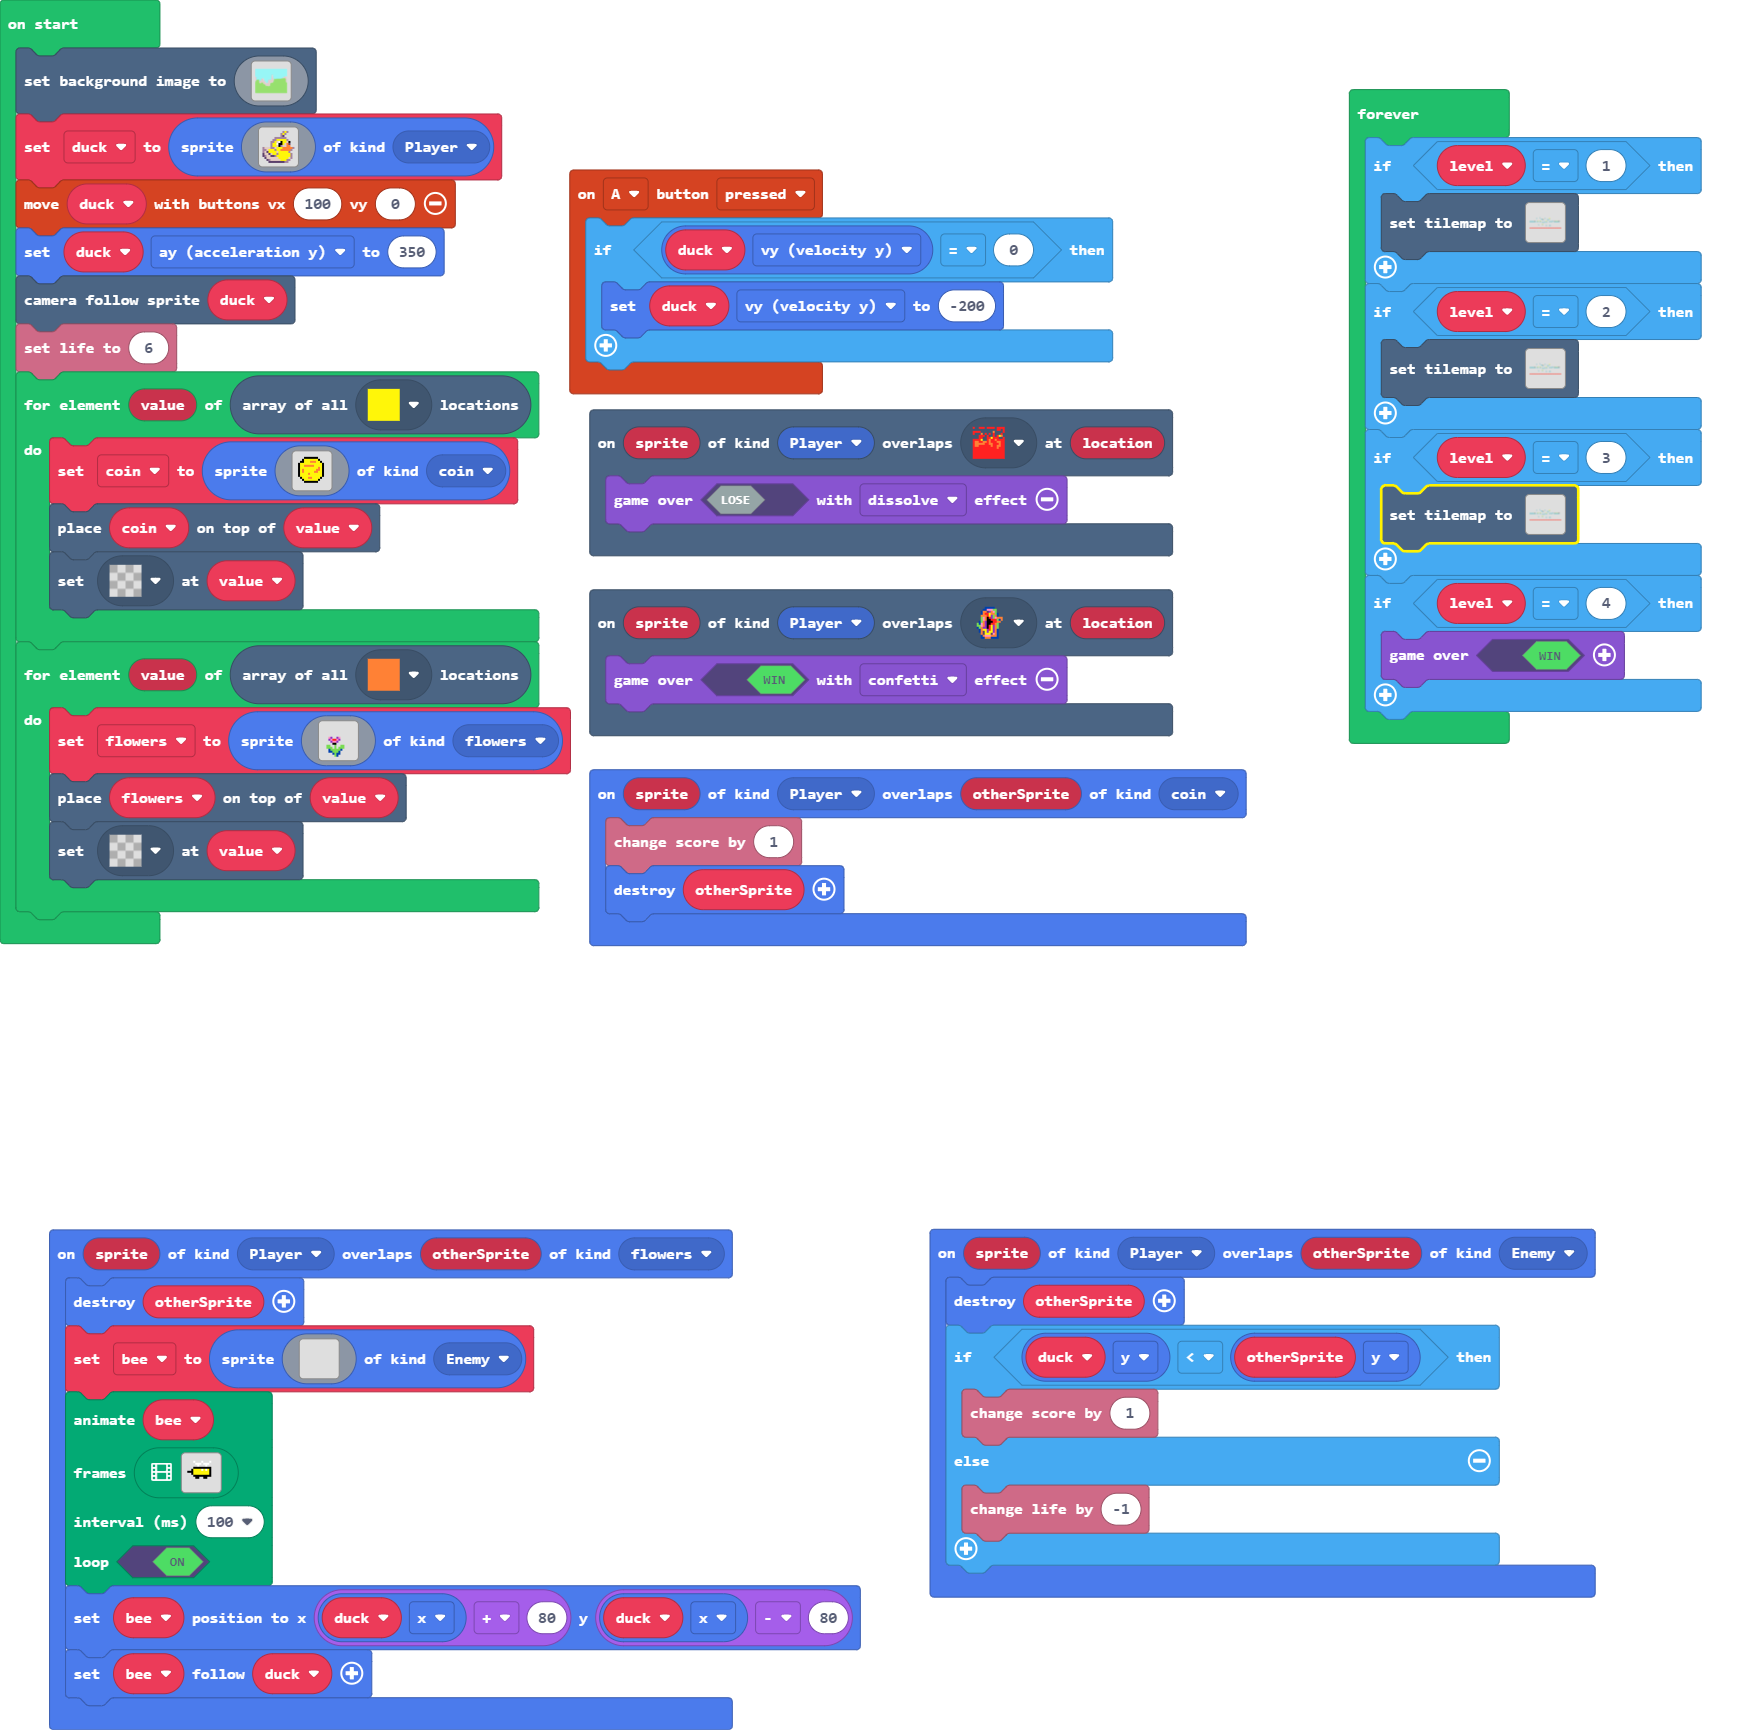
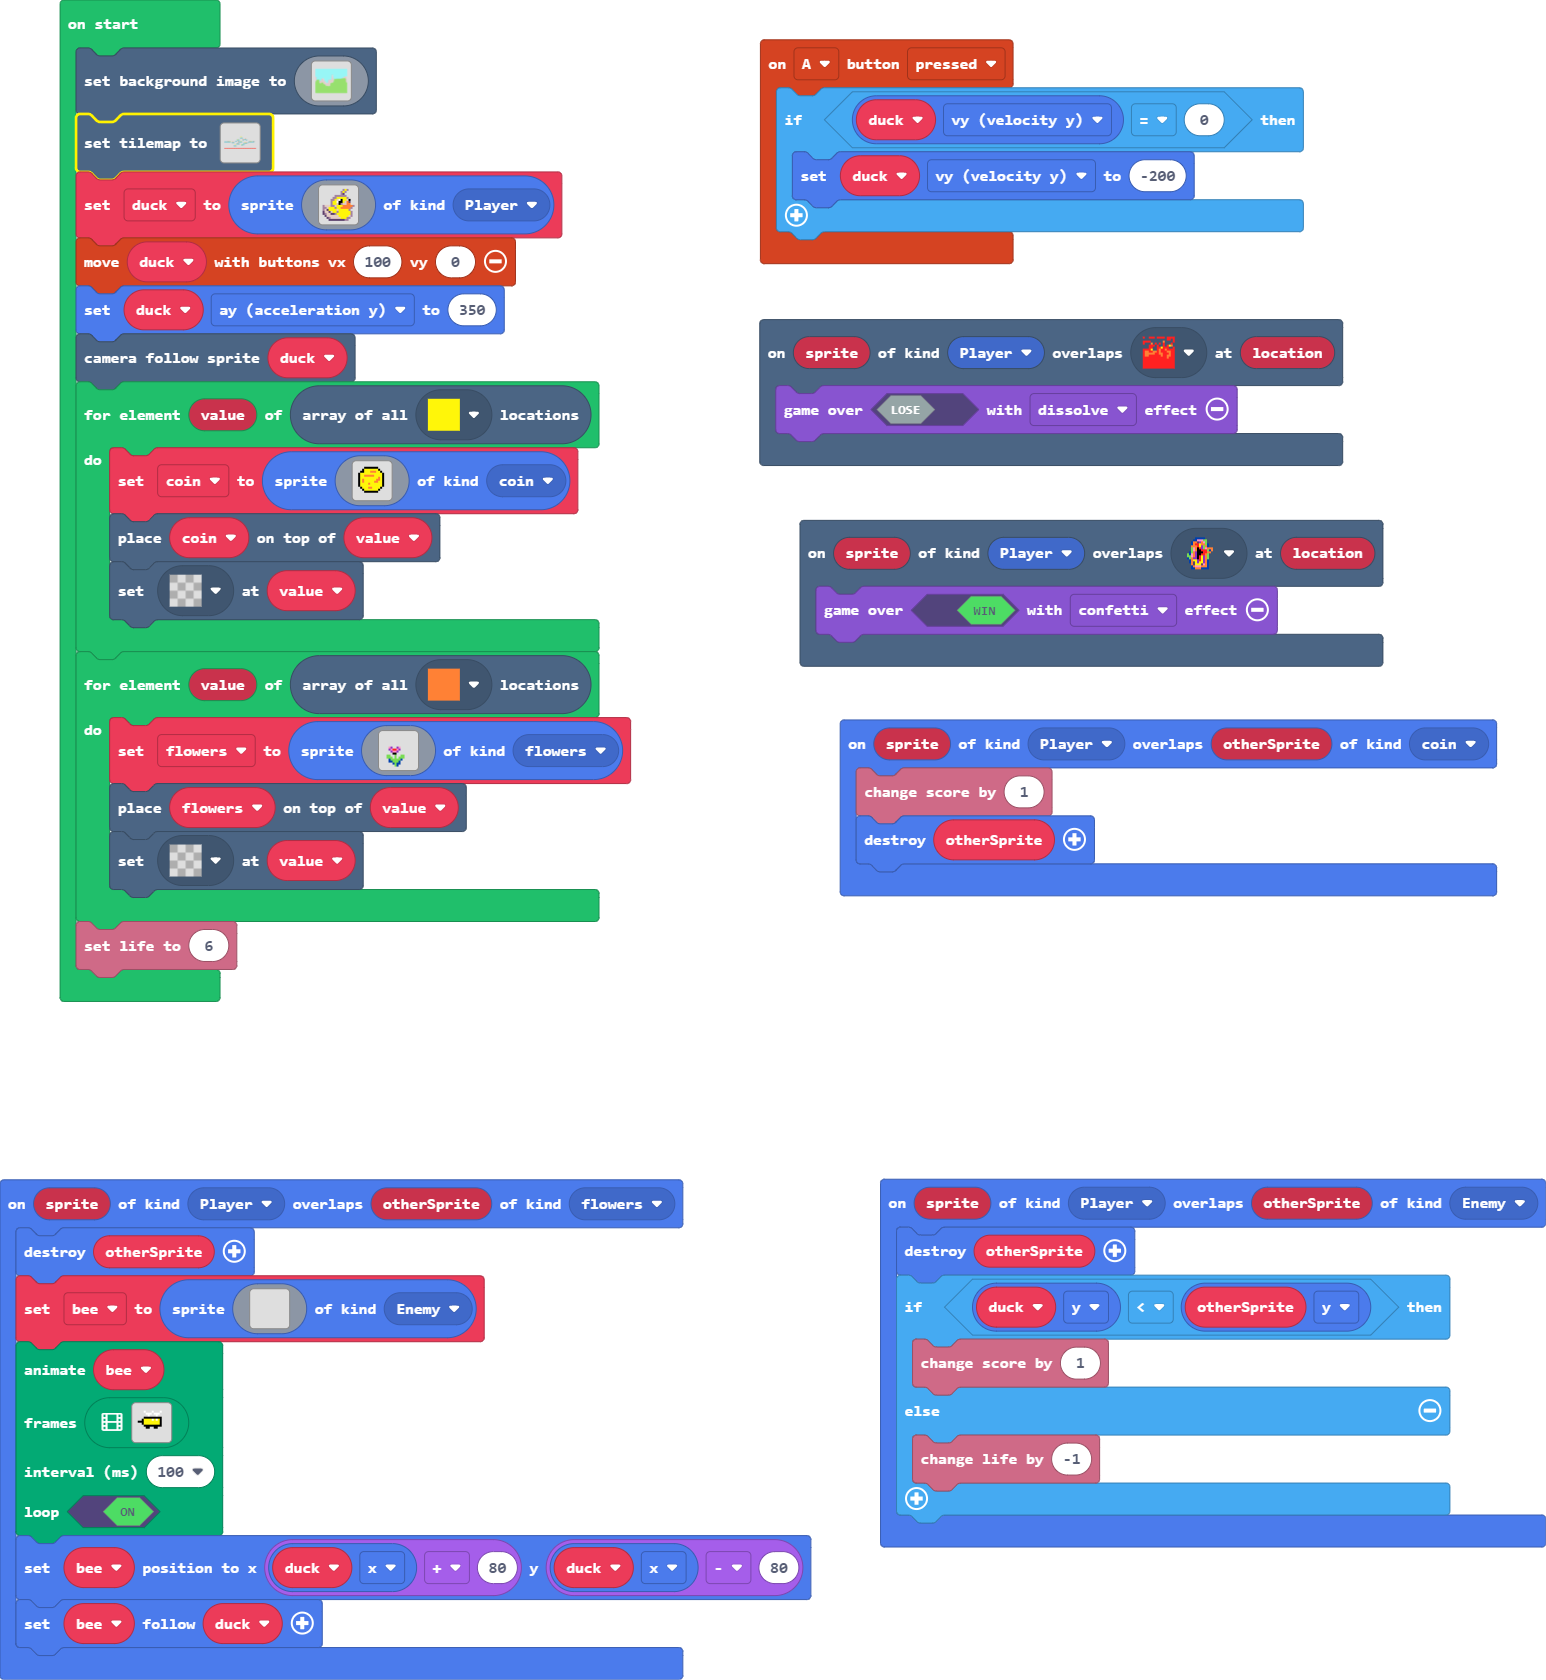
Update main.blocks, main.ts, tilemap.g.jres, tilemap.g.ts

diff --git a/tilemap.g.ts b/tilemap.g.ts
@@ -70,29 +70,105 @@ namespace myTiles {
 . . . . . . . . . . . . . . . . 
 . . . . . . . . . . . . . . . . 
 `, [myTiles.transparency16], TileScale.Sixteen);
-            case "level1":
-            case "level1":return tiles.createTilemap(hex`3200140000000000000000000000000000000000000000000000000000000000000000000000000000000000000000000000000000000000000000000000000000000000000000000000000000000000000000000000000000000000000000000000000000000000000000000000000000000000000000000000000000000000000000000000000000000000000000000000000000000000000000000000000000000000000000000000010000000000000000000000000000000000000000000000000000000000000000000000000000000000000000010000000000000000000000000100000000000004000000000000000000000000000000000000000000000000000000000000000000000000010100050000000000000000000100000000000000000000000000000000000000000000000000000000000000000000000000000101000000000000010100000000000000000000000000000000000000000000000000000000000000000000000000000000000000000000000000000000000000000000000000000000000000000000000000000000000005000000000400000004000000000000000004000000000000000000010000050000040000050300000001010101010101010101000001010000010100000000000001000001000000010100010100000101010101010101010000000000000000000000000000000000000000000000010100010000010000000000000000000000000000000000000000000000000000000000000000000000000000000000000000000000000000000000000000000000000000000000000000000000000000000000000000000000000000000000000000000000000000000000000000000000000000000000000000000000000000000000000000000000000000000000000000000000040000000000000000000000000000000000000000000000000000000000000000000000000000000000000001000000000001000000000000000000000000000000000000000000000000000000000000000000000000000000000000000000000000000000000000000100000000010100000000000000000000000000000000000000000000000000000000000000000000000000000000000000000000000000000000000000000000000000000000000000000000000000000000000000000000000000000000000000000000000000000000000000000000000000000000000000000000000000000000000000000000000000000000000000000000000000000000000000000000000000000000000000000000000202020202020202020202020202020202020202020202020202020202020202020202020202020202020202020202020202`, img`
+            case "level5":
+            case "level5":return tiles.createTilemap(hex`1000100000000000000000000000000000000000000000000000000000000000000000000000000000000000000000000000000000000000000000000000000000000000000000000000000000000000000000000000000000000000000000000000000000000000000000000000000000000000000000000000000000000000000000000000000000000000000000000000000000000000000000000000000000000000000000000000000000000000000000000000000000000000000000000000000000000000000000000000000000000000000000000000000000000000000000000000000000000000000000000000000000000000000000000000000000000000`, img`
+. . . . . . . . . . . . . . . . 
+. . . . . . . . . . . . . . . . 
+. . . . . . . . . . . . . . . . 
+. . . . . . . . . . . . . . . . 
+. . . . . . . . . . . . . . . . 
+. . . . . . . . . . . . . . . . 
+. . . . . . . . . . . . . . . . 
+. . . . . . . . . . . . . . . . 
+. . . . . . . . . . . . . . . . 
+. . . . . . . . . . . . . . . . 
+. . . . . . . . . . . . . . . . 
+. . . . . . . . . . . . . . . . 
+. . . . . . . . . . . . . . . . 
+. . . . . . . . . . . . . . . . 
+. . . . . . . . . . . . . . . . 
+. . . . . . . . . . . . . . . . 
+`, [myTiles.transparency16,myTiles.tile1,myTiles.tile2,myTiles.tile3,myTiles.tile4], TileScale.Sixteen);
+            case "level0":
+            case "level1":return tiles.createTilemap(hex`3200140000000000000000000000000000000000000000000000000000000000000000000000000000000000000000000000000000000000000000000000000000000000000000000000000000000000040000000000000000000000000000000000000000000000000000000000000000000000000000000000000000000000000000000000000000000000000000000000000000000000000000000000000000000000000000000000000000000000000000010101010000000000000000000000000000000000000000000000000000000000000000000000000000000000000000000000000000000000000500000000000000000000000000000000000000000000000000000000000000000000000000040000000000000005000101010000000000000000000000000000000000000000000000000000000000000000000000000101010100000000000101000000010100000000000000000000000000000000000000000000000000000000000000000000000000000000000000000000000000000000000000000000000000000000000000000000050000040000000000000001010100000500000004000000000000000000000000000500040000000300000001010101010101010101000000050000000000000000010101010101000000000000000000000101010101010101010000000000000000000000000000000101010100000000000000000000000000000000040005000001000000000000000000000000000000000000000000000000000000000000000000050000000000000000010101010101000000000000000000000000000000000000000000000000000000000000000000010101010100000000000000000000000000000000000000000000000000000000000000000000000000000000000000040000000000000000000401010101000000000000000000000000000000000000000000000000000000000000000000000000000000000000000000010100000000000000000000000000000000000000000000000000000000000000000000000001010101000000000000000000000000000000000000000000000000000000000000000000000000000000000000000000000000000000000000000000000000000000000000000000000000000000000000000000000000000000000000000000000000000000000000000000000000000000000000000000000000000000000000000000000000000000000000000000000000000000000000000000000000000000000000000000000000000000000000000000000000000202020202020202020202020202020202020202020202020202020202020202020202020202020202020202020202020202`, img`
 ..................................................
 ..................................................
 ..................................................
-................2.................................
-...........2............2.........................
-..................22...........2..................
-....................22......22....................
+.........................2222.....................
 ..................................................
-....................................2.............
-2222222222..22..22......2..2...22.22..222222222...
-....................22.2..2.......................
+...............................222................
+....................2222.....22...22..............
 ..................................................
-..................................................
-..................................................
-..............2.....2.............................
-..........................2....22.................
+.................222..............................
+2222222222............222222..........222222222...
+............2222.....................2............
+..............................222222..............
+...................22222..........................
+............................2222..................
+...........................22.....................
+...............2222...............................
 ..................................................
 ..................................................
 ..................................................
 ..................................................
 `, [myTiles.transparency16,sprites.dungeon.collectibleInsignia,myTiles.tile1,myTiles.tile2,myTiles.tile3,myTiles.tile4], TileScale.Sixteen);
+            case "level6":
+            case "level6":return tiles.createTilemap(hex`1000100000000000000000000000000000000000000000000000000000000000000000000000000000000000000000000000000000000000000000000000000000000000000000000000000000000000000000000000000000000000000000000000000000000000000000000000000000000000000000000000000000000000000000000000000000000000000000000000000000000000000000000000000000000000000000000000000000000000000000000000000000000000000000000000000000000000000000000000000000000000000000000000000000000000000000000000000000000000000000000000000000000000000000000000000000000000`, img`
+. . . . . . . . . . . . . . . . 
+. . . . . . . . . . . . . . . . 
+. . . . . . . . . . . . . . . . 
+. . . . . . . . . . . . . . . . 
+. . . . . . . . . . . . . . . . 
+. . . . . . . . . . . . . . . . 
+. . . . . . . . . . . . . . . . 
+. . . . . . . . . . . . . . . . 
+. . . . . . . . . . . . . . . . 
+. . . . . . . . . . . . . . . . 
+. . . . . . . . . . . . . . . . 
+. . . . . . . . . . . . . . . . 
+. . . . . . . . . . . . . . . . 
+. . . . . . . . . . . . . . . . 
+. . . . . . . . . . . . . . . . 
+. . . . . . . . . . . . . . . . 
+`, [myTiles.transparency16], TileScale.Sixteen);
+            case "level7":
+            case "level7":return tiles.createTilemap(hex`1000100000000000000000000000000000000000000000000000000000000000000000000000000000000000000000000000000000000000000000000000000000000000000000000000000000000000000000000000000000000000000000000000000000000000000000000000000000000000000000000000000000000000000000000000000000000000000000000000000000000000000000000000000000000000000000000000000000000000000000000000000000000000000000000000000000000000000000000000000000000000000000000000000000000000000000000000000000000000000000000000000000000000000000000000000000000000`, img`
+. . . . . . . . . . . . . . . . 
+. . . . . . . . . . . . . . . . 
+. . . . . . . . . . . . . . . . 
+. . . . . . . . . . . . . . . . 
+. . . . . . . . . . . . . . . . 
+. . . . . . . . . . . . . . . . 
+. . . . . . . . . . . . . . . . 
+. . . . . . . . . . . . . . . . 
+. . . . . . . . . . . . . . . . 
+. . . . . . . . . . . . . . . . 
+. . . . . . . . . . . . . . . . 
+. . . . . . . . . . . . . . . . 
+. . . . . . . . . . . . . . . . 
+. . . . . . . . . . . . . . . . 
+. . . . . . . . . . . . . . . . 
+. . . . . . . . . . . . . . . . 
+`, [myTiles.transparency16], TileScale.Sixteen);
+            case "level8":
+            case "level8":return tiles.createTilemap(hex`1000100000000000000000000000000000000000000000000000000000000000000000000000000000000000000000000000000000000000000000000000000000000000000000000000000000000000000000000000000000000000000000000000000000000000000000000000000000000000000000000000000000000000000000000000000000000000000000000000000000000000000000000000000000000000000000000000000000000000000000000000000000000000000000000000000000000000000000000000000000000000000000000000000000000000000000000000000000000000000000000000000000000000000000000000000000000000`, img`
+. . . . . . . . . . . . . . . . 
+. . . . . . . . . . . . . . . . 
+. . . . . . . . . . . . . . . . 
+. . . . . . . . . . . . . . . . 
+. . . . . . . . . . . . . . . . 
+. . . . . . . . . . . . . . . . 
+. . . . . . . . . . . . . . . . 
+. . . . . . . . . . . . . . . . 
+. . . . . . . . . . . . . . . . 
+. . . . . . . . . . . . . . . . 
+. . . . . . . . . . . . . . . . 
+. . . . . . . . . . . . . . . . 
+. . . . . . . . . . . . . . . . 
+. . . . . . . . . . . . . . . . 
+. . . . . . . . . . . . . . . . 
+. . . . . . . . . . . . . . . . 
+`, [myTiles.transparency16], TileScale.Sixteen);
         }
         return null;
     })

diff --git a/main.ts b/main.ts
@@ -215,6 +215,7 @@ scene.setBackgroundImage(img`
     7777777777777777777777777777777777777777777777777777777777777777777777777777777777777777777777777777777777777777777777777777777777777777777777777777777777777777
     7777777777777777777777777777777777777777777777777777777777777777777777777777777777777777777777777777777777777777777777777777777777777777777777777777777777777777
     `)
+tiles.setTilemap(tilemap`level0`)
 duck = sprites.create(img`
     . . . . . . . . . . b 5 b . . . 
     . . . . . . . . . b 5 b . . . . 
@@ -236,7 +237,6 @@ duck = sprites.create(img`
 controller.moveSprite(duck, 100, 0)
 duck.ay = 350
 scene.cameraFollowSprite(duck)
-info.setLife(6)
 for (let value of tiles.getTilesByType(assets.tile`tile4`)) {
     coin = sprites.create(img`
         . . . . . . . . . . . . . . . . 
@@ -281,18 +281,4 @@ for (let value of tiles.getTilesByType(assets.tile`tile5`)) {
     tiles.placeOnTile(flowers, value)
     tiles.setTileAt(value, assets.tile`transparency16`)
 }
-forever(function () {
-    let level = 0
-    if (level == 1) {
-        tiles.setTilemap(tilemap`level1`)
-    }
-    if (level == 2) {
-        tiles.setTilemap(tilemap`level1`)
-    }
-    if (level == 3) {
-        tiles.setTilemap(tilemap`level1`)
-    }
-    if (level == 4) {
-        game.over(true)
-    }
-})
+info.setLife(6)
